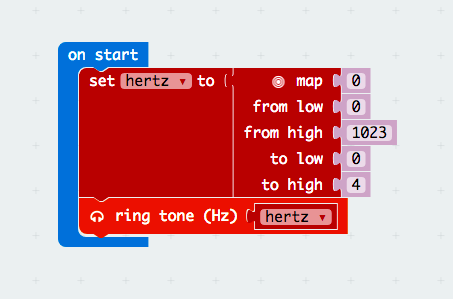
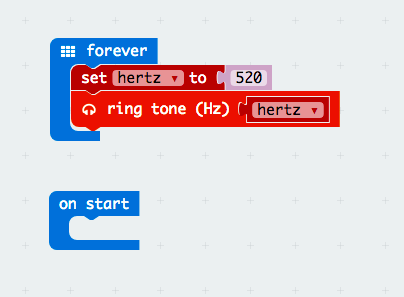
Fix bug in Squeal project

diff --git a/projects/squeal/index.html b/projects/squeal/index.html
@@ -39,25 +39,35 @@ title: "Make your micro:bit squeal!"
 <div class="project-steps__info">
     <p>Let’s vary the tone when we <strong>tilt</strong> the microbit!</p>
     <p>We’ll make it so that the lowest sound is a Middle C (260 hertz) and the highest is a High C (1040 hertz).</p>
+    <p><strong>Remember those two numbers</strong> – they will come in useful!</p>
+</div>
+<div class="project-steps__step">
+    <p>Rather than setting the <code>hertz</code> value only once, when then micro:bit starts up, we want to constantly update the <code>hertz</code> based on the micro:bit’s current position.</p>
+    <p>So, move your code from the <code>on start</code> block into the <code>forever</code> block.</p>
+    <img src="step-05.png" width="404" height="297" alt="">
 </div>
 <div class="project-steps__step">
     <p>Replace the number <code>520</code> with a <code>map</code> block.</p>
-    <img src="step-05.png" width="453" height="299" alt="">
+    <img src="step-06.png" width="440" height="304" alt="">
     <p>Map converts a number on one scale to a number at the equivalent position on another scale.</p>
 </div>
 <div class="project-steps__step">
     <p>Find the <code>acceleration (mg) x</code> block, and plug it into the first part of the <code>map</code> block.</p>
-    <img src="step-06.png" width="640" height="312" alt="">
+    <img src="step-07.png" width="624" height="301" alt="">
 </div>
 <div class="project-steps__step">
     <p>The <code>acceleration (mg) x</code> block returns a number between <code>-1023</code> (when the microbit is tilted all the way to the left) and <code>+1023</code> (when the microbit is tilted all the way to the right).</p>
     <p>Type <code>-1023</code> into the <code>from low</code> block, and <code>1023</code> into the <code>from high</code> block.</p>
-    <img src="step-07.png" width="630" height="320" alt="">
+    <img src="step-08.png" width="625" height="297" alt="">
 </div>
 <div class="project-steps__step">
     <p>The lowest sound we want to play is Middle C (260 hertz), so type <code>260</code> in the <code>to low</code> box.</p>
-    <img src="step-08.png" width="631" height="316" alt="">
+    <img src="step-09.png" width="625" height="314" alt="">
+</div>
+<div class="project-steps__step">
     <p>What do you think we should type into the <code>to high</code> box, so that it plays a High C?</p>
+    <img src="step-10.png" width="620" height="297" alt="">
+    <p>If you’re stuck, remind yourself of some of the <strong>important numbers</strong> we mentioned earlier on!</p>
 </div>
 <div class="project-steps__step">
     <p>Download the code, and tilt your microbit. The tone will go up and down as you tilt the microbit to the left and right.</p>
@@ -83,5 +93,5 @@ title: "Make your micro:bit squeal!"
 <div class="project-steps__step">
     <p>Once you’ve done that, how might you vary the tone based on <strong>how near one microbit is to another</strong>?</p>
     <p>The following code blocks might come in useful:</p>
-    <img src="step-09.png" width="739" height="359" alt="">
+    <img src="step-11.png" width="739" height="359" alt="">
 </div>
